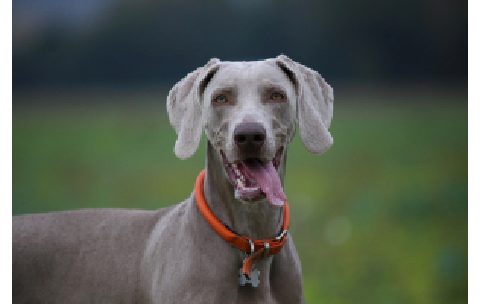
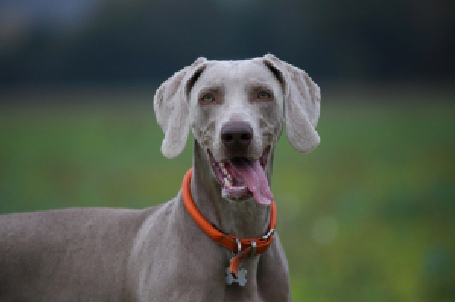
fix placeholder dog

diff --git a/src/pages/Account/DashboardPage.tsx b/src/pages/Account/DashboardPage.tsx
@@ -125,7 +125,7 @@ const DashboardPage = () => {
           <Box
             height="100%"
             flexGrow={1}
-            backgroundImage="url(/media/placeholder-dog.png)"
+            backgroundImage={`url(${service.pets[0]?.profileUrl})`}
             backgroundSize="cover"
             backgroundPosition="50% 50%"
             roundedRight="lg"
